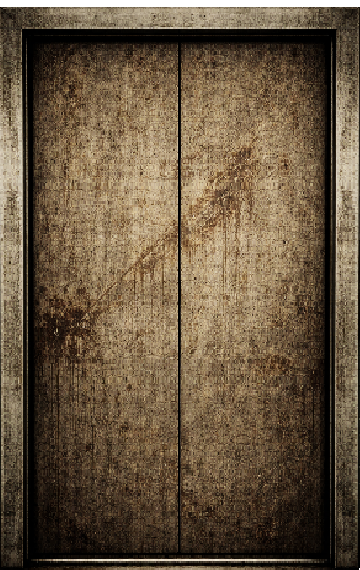
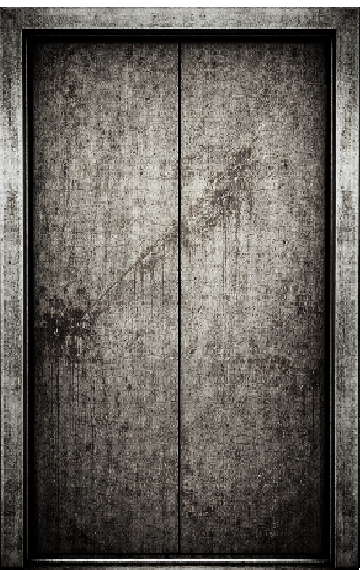
added lift number and changed lift png

diff --git a/EarlyBirdGetsDaWorm/Doors.cpp b/EarlyBirdGetsDaWorm/Doors.cpp
@@ -20,6 +20,7 @@ const float DOOR_Y = ComputeDoorY();
 
 // ==================================================
 // WINDOW PLACEMENT (normalized in door space)
+// ============================================================
 // u = 0.5 means centered horizontally
 // v = 0.5 means centered vertically
 // v > 0.5 moves it UP, v < 0.5 moves it DOWN
@@ -279,27 +280,6 @@ void Doors_Animate(float dt, int doorNearPlayer, float camX)
         return; // do not start another event while one is active
     }
 
-    // --- C) Red glowing eyes (no PNG) ---
-    //if (s.event == DoorEvent::EyesBlink && s.eyes.active)
-    //{
-    //    s.eyes.t += dt;
-
-    //    // blink toggles (on/off) every ~0.12 sec
-    //    s.eyes.blinkTimer += dt;
-    //    if (s.eyes.blinkTimer >= 0.25f)
-    //    {
-    //        s.eyes.blinkTimer = 0.0f;
-    //        s.eyes.eyesOn = !s.eyes.eyesOn;
-    //    }
-
-    //    if (s.eyes.t >= s.eyes.duration)
-    //    {
-    //        ClearDoorEvent(doorNearPlayer);
-    //        s.eventCooldown = 1.5f; // after an event ends, wait a bit
-    //    }
-    //    return; // do not start another event while one is active
-    //}
-
     // --------------------------------------------------
     // 2) If no event active: attempt to roll a new one
     // --------------------------------------------------
@@ -418,30 +398,6 @@ void Doors_Draw(f32 camX, s8 floorNum, f32 textXoffset, f32 textY, bool dementia
                 WINDOW_W * 0.95f, WINDOW_H * 0.95f, 0.85f);
         }
 
-        // --- C) Red glowing eyes (no PNG) ---
-    //    if (s.event == DoorEvent::EyesBlink && s.eyes.active)
-    //    {
-    //        if (s.eyes.eyesOn)
-    //        {
-    //            // Eyes position relative to window (normalized)
-    //            const float eyeY = winY + WINDOW_H * 0.10f; // slightly above window center
-    //            const float eyeOffsetX = WINDOW_W * 0.18f;
-
-				//// Eye size 
-    //            const float eyeW = WINDOW_W * 0.14f;
-    //            const float eyeH = WINDOW_H * 0.18f;
-
-    //            // Glow layers: center bright + outer softer
-    //            // Note: using ARGB colors (0xAARRGGBB)
-    //            DrawSquareMesh(gQuadMesh, winX - eyeOffsetX, eyeY, eyeW, eyeH, 0xFFFF0000); 
-    //            DrawSquareMesh(gQuadMesh, winX + eyeOffsetX, eyeY, eyeW, eyeH, 0xFFFF0000);
-
-    //            // Glow layer (bigger + transparent)
-    //            DrawSquareMesh(gQuadMesh, winX - eyeOffsetX, eyeY, eyeW * 2.2f, eyeH * 2.0f, 0x66FF0000);
-    //            DrawSquareMesh(gQuadMesh, winX + eyeOffsetX, eyeY, eyeW * 2.2f, eyeH * 2.0f, 0x66FF0000);
-    //        }
-    //    }
-
         // --------------------------------------------
         // 5) DOOR NUMBER TEXT (unchanged)
         // --------------------------------------------
@@ -457,7 +413,10 @@ void Doors_Draw(f32 camX, s8 floorNum, f32 textXoffset, f32 textY, bool dementia
             const float textNDC_X = (doorX / SCREEN_WIDTH_HALF) - textXoffset;
             const float textNDC_Y = textY / SCREEN_HEIGHT_HALF;
 
-            AEGfxPrint(doorFontId, textBuffer, textNDC_X, textNDC_Y, 1.0f, 1.0f, 0.0f, 0.0f, 1.0f);
+            AEGfxPrint(doorFontId, textBuffer, 
+                textNDC_X, textNDC_Y, 
+                1.0f, 1.0f, 
+                0.0f, 0.0f, 1.0f);
         }
     }
 }

diff --git a/EarlyBirdGetsDaWorm/Game.cpp b/EarlyBirdGetsDaWorm/Game.cpp
@@ -266,8 +266,11 @@ void Game_Draw()
 	// Start Lift
 	if (camX > -(2 * DIST_BETWEEN_DOORS)) {
 		DrawSquareMesh(squareMesh, -600.0f + camX - 100.0f, 0.0f, 800.0f, 900.0f, COLOR_BLACK);
-		Lift_DrawWorld(squareMesh, camX, -100.0f, LIFT_WIDTH, LIFT_HEIGHT);
-		if (floorNum != 0) DrawSquareMesh(squareMesh, -700.0f + camX - 100.0f, 0.0f, 800.0f, 900.0f, COLOR_NIGHT_BLUE);
+		Lift_DrawWorld(squareMesh, camX, -100.0f, LIFT_WIDTH, LIFT_HEIGHT, floorNum, textXoffset, textY);
+		if (floorNum != 0)
+		{
+			DrawSquareMesh(squareMesh, -700.0f + camX - 100.0f, 0.0f, 800.0f, 900.0f, COLOR_NIGHT_BLUE);
+		}
 	}
 
 	// End Lift
@@ -275,8 +278,11 @@ void Game_Draw()
 		float endOffset		= (NUM_DOORS + 2) * DIST_BETWEEN_DOORS;
 		float liftOffset	= (NUM_DOORS + 1) * DIST_BETWEEN_DOORS;
 		DrawSquareMesh(squareMesh, endOffset + camX + 100.0f, 0.0f, 800.0f, 900.0f, COLOR_BLACK);
-		Lift_DrawWorld(squareMesh, liftOffset + camX, -100.0f, LIFT_WIDTH, LIFT_HEIGHT);
-		if (floorNum != 0) DrawSquareMesh(squareMesh, endOffset + camX + 200.0f, 0.0f, 800.0f, 900.0f, COLOR_NIGHT_BLUE);
+		Lift_DrawWorld(squareMesh, liftOffset + camX, -100.0f, LIFT_WIDTH, LIFT_HEIGHT, floorNum, textXoffset, textY);
+		if (floorNum != 0)
+		{
+			DrawSquareMesh(squareMesh, endOffset + camX + 200.0f, 0.0f, 800.0f, 900.0f, COLOR_NIGHT_BLUE);
+		}
 	}
 
 	// Player setup
@@ -309,7 +315,6 @@ void Game_Draw()
 	Timer_Draw(0.0f, 0.85f);
 	Timer_DrawDayOverlay(squareMesh);
 	Lift_Draw(squareMesh);
-
 
 	// Debug Overlay
 	DebugInfo info;

diff --git a/EarlyBirdGetsDaWorm/Lift.hpp b/EarlyBirdGetsDaWorm/Lift.hpp
@@ -1,36 +1,21 @@
 #pragma once
 
-// ============================================================
-// LOAD / INITIALIZE / UNLOAD
-// ============================================================
 
 void Lift_Load();          // Load textures
+
 void Lift_Initialize();    // Create meshes + reset state
+
 void Lift_Unload();        // Free textures + meshes
 
-
-// ============================================================
-// UPDATE
-// ============================================================
-
 void Lift_Update(float dt, float camX, float maxDist);
+
 void Lift_HandleInput(s8& floorNum);
 
-
-// ============================================================
-// DRAW
-// ============================================================
-
-// Draw lift in world (replaces grey hallway rectangle)
-void Lift_DrawWorld(AEGfxVertexList* squareMesh,float x, float y, float w, float h);
-
 // Draw lift UI / door animation overlay
+void Lift_DrawWorld(AEGfxVertexList* squareMesh, float x, float y, float w, float h, s8 floorNum,float textXoffset, float textY);
+
 void Lift_Draw(AEGfxVertexList* squareMesh);
 
-
-// ============================================================
-// STATE GETTERS
-// ============================================================
-
 bool Lift_IsActive();
+
 bool Lift_IsNear();

diff --git a/EarlyBirdGetsDaWorm/pch.hpp b/EarlyBirdGetsDaWorm/pch.hpp
@@ -42,9 +42,10 @@
 // Colors
 #define COLOR_WHITE         0xFFFFFFFF
 #define COLOR_BLACK         0x000000FF
+#define COLOR_LIGHT_GREY    0x696969FF
+#define COLOR_DARK_GREY		0x333333FF
 #define COLOR_NIGHT_BLUE    0x191970FF
 #define COLOR_DOOR_BROWN    0x8B4513FF
-#define COLOR_LIFT_GREY     0x696969FF
 #define COLOR_LIFT_BG       0x2F4F4FFF
 #define COLOR_LIFT_CONSOLE  0xC0C0C0FF
 #define COLOR_LIFT_BUTTON   0xFFD700FF
@@ -54,11 +55,16 @@
 #define PLAYER_SPEED        400.0f
 #define PLAYER_WIDTH        220.0f
 #define PLAYER_HEIGHT       200.0f
+
 #define DOOR_WIDTH          200.0f
 #define DOOR_HEIGHT         300.0f
 #define DIST_BETWEEN_DOORS  600.0f
+
 #define LIFT_WIDTH          200.0f
 #define LIFT_HEIGHT         300.0f
+#define LIFT_DOOR_WIDTH		500.0f
+#define LIFT_DOOR_HEIGHT	800.0f
+
 #define NUM_OF_FLOOR        10
 #define NUM_DOORS           10
 #define SCREEN_WIDTH_HALF   800.0f
